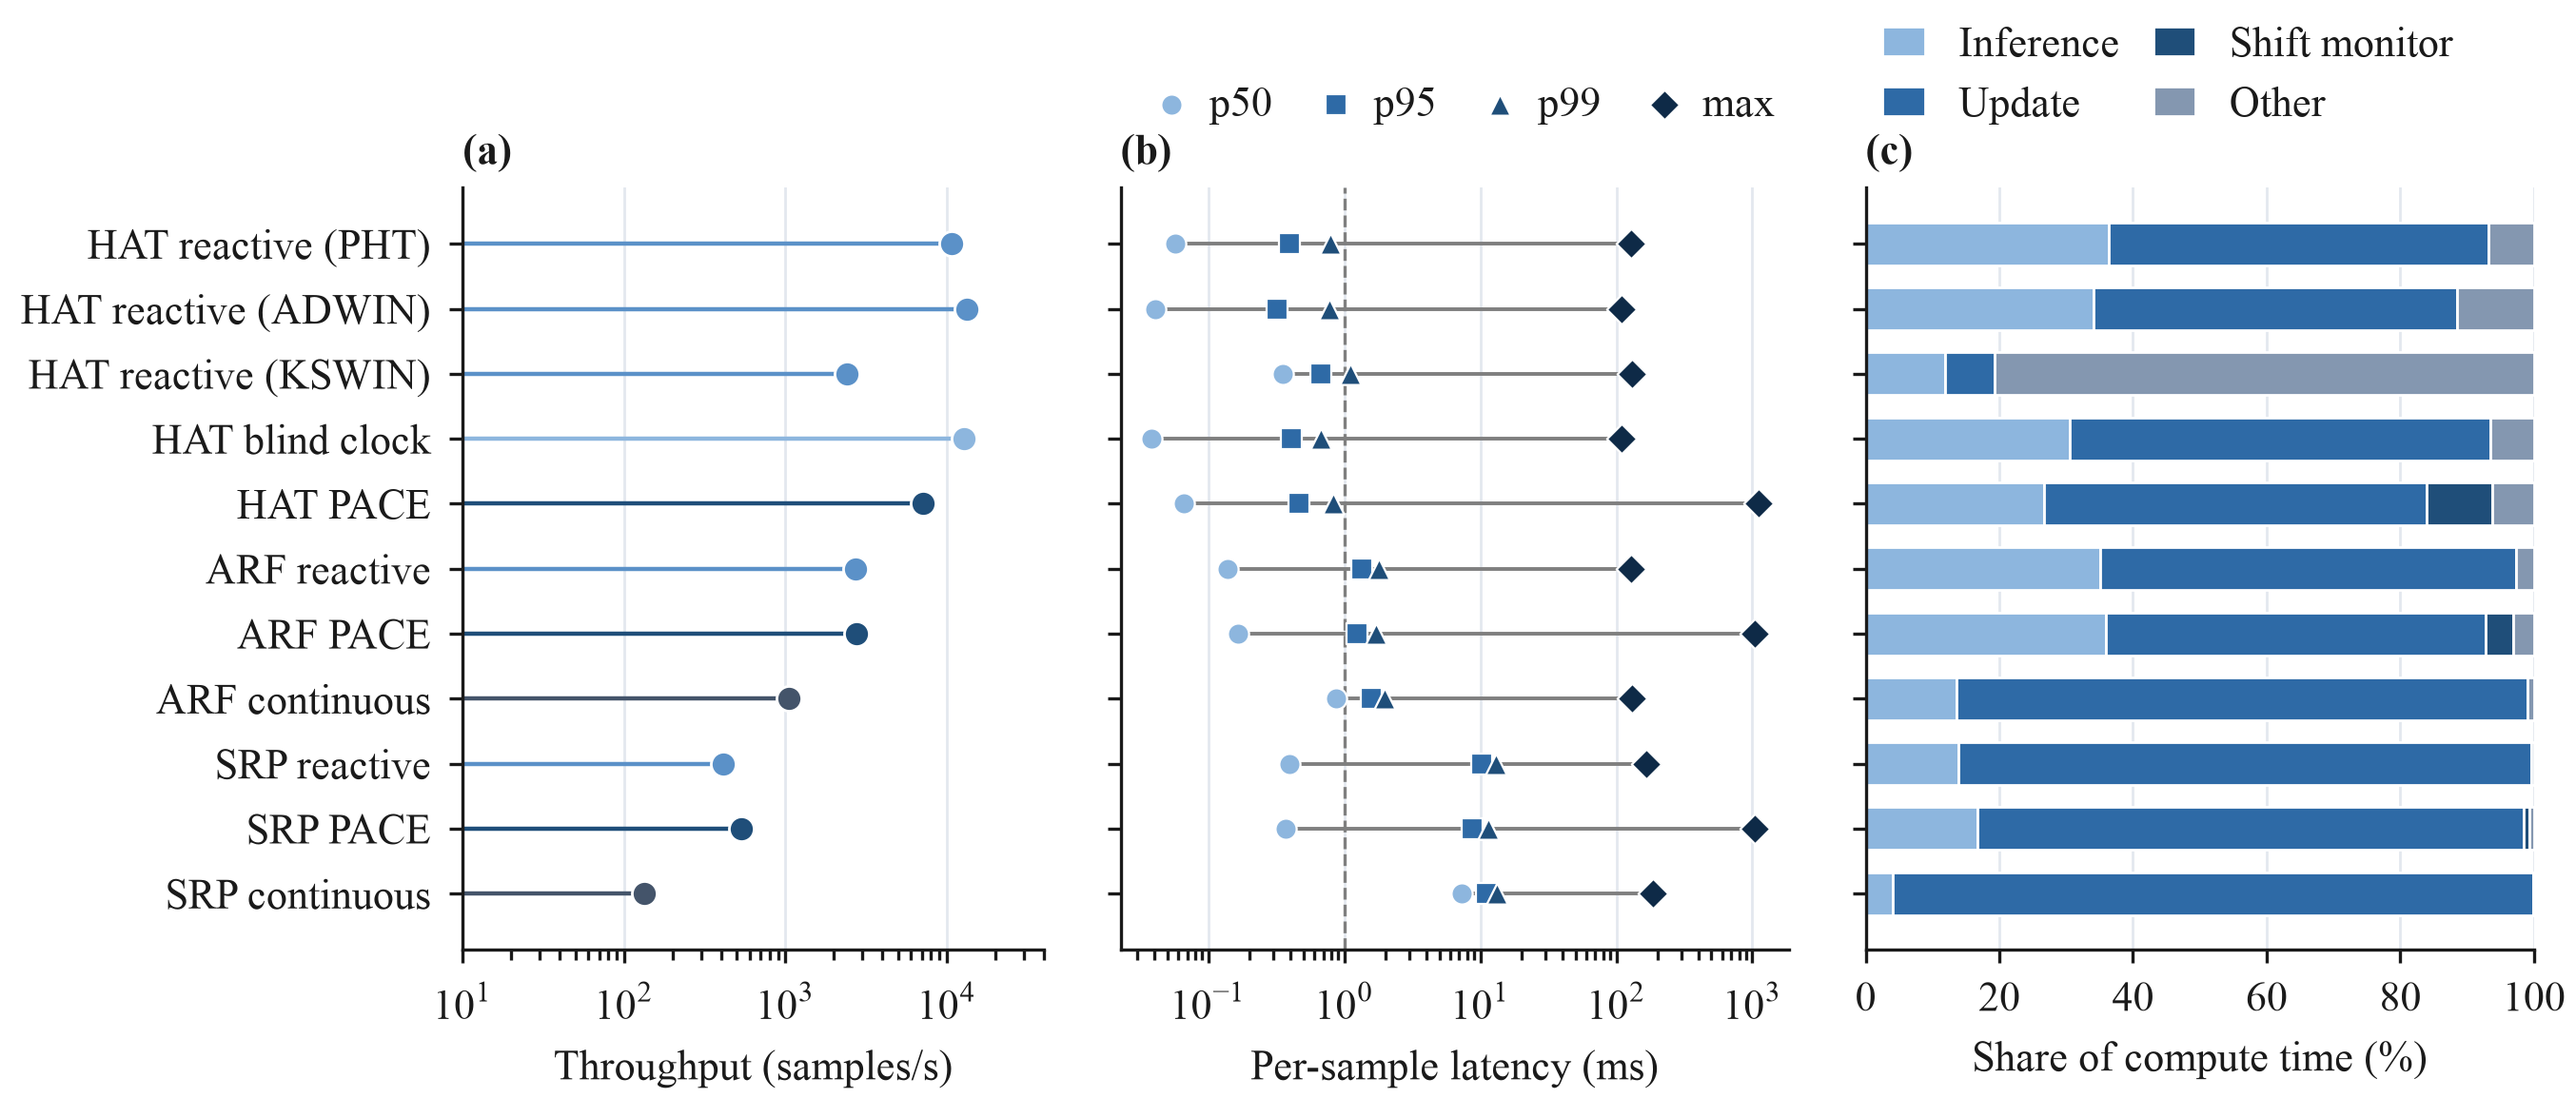
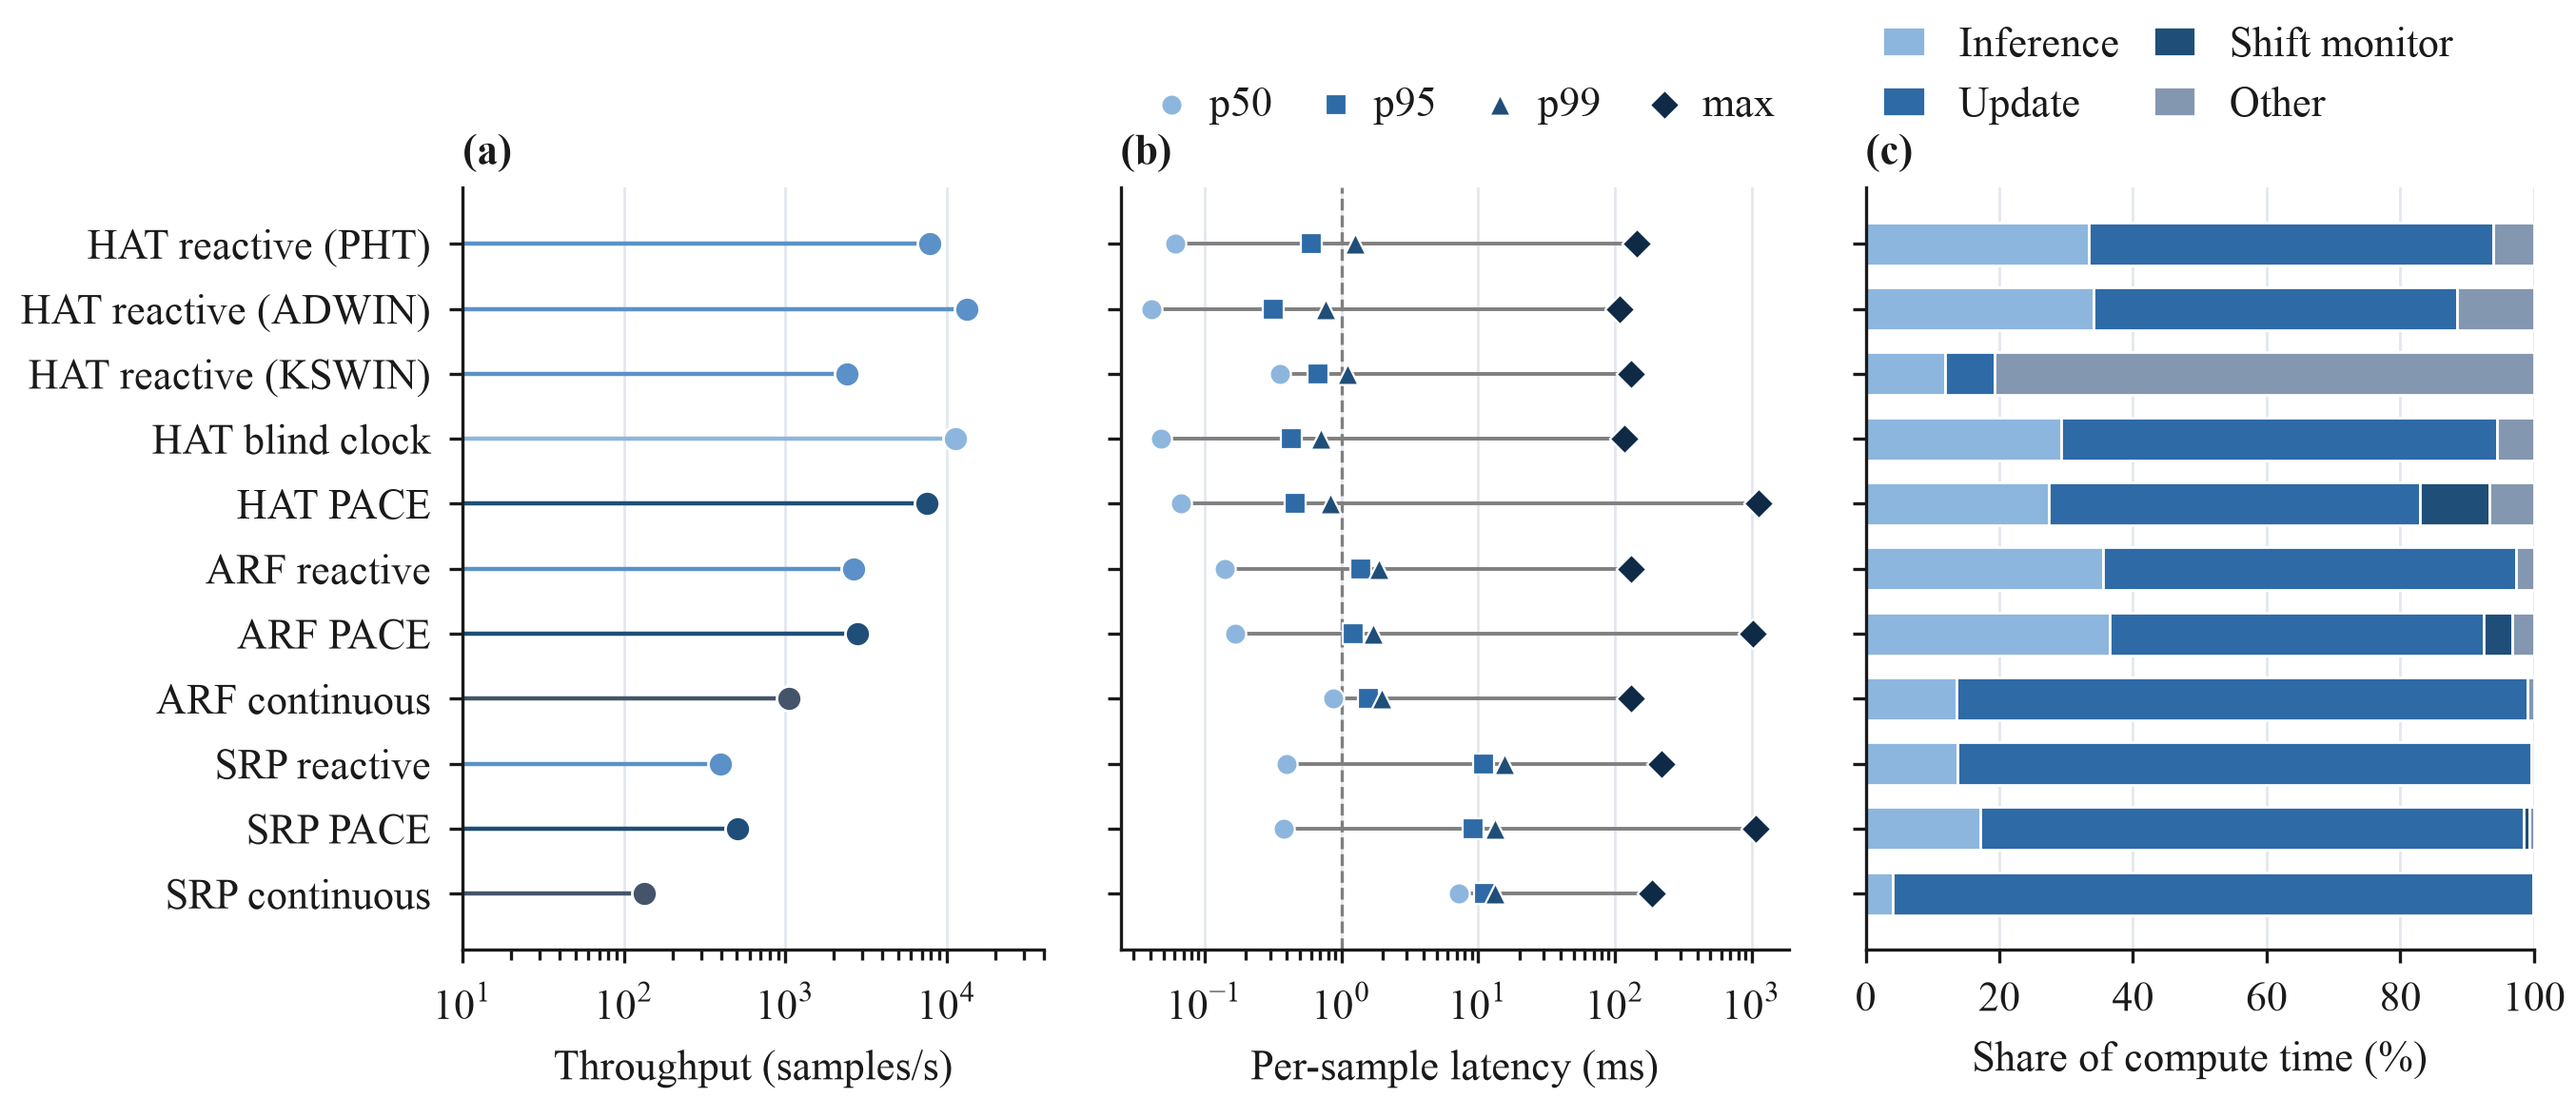
analysis: cost and sensitivity figures over the ten core seeds
reviewer_analysis averages every core seed that exists per arm (ADWIN,
KSWIN and continuous ARF/SRP have five) and prints the per-arm count.
At ten seeds B's throughput drops from 10.8K to 7.8K/s, level with
PACE: its seeds 5-9 ran in a busier batch, so the write-up now treats
HAT throughput gaps as load noise and keeps only PACE's monitor cost.
Sensitivity: recall 0.23 at the operating point, max 0.52.

diff --git a/scripts/reviewer_analysis.py b/scripts/reviewer_analysis.py
@@ -19,7 +19,7 @@ import matplotlib.pyplot as plt
 import numpy as np
 
 # reuse the palette, sizes and save/variant logic of the paper figures
-from paper_figures import ACC, BLUE, COLOR, FULL, MUTED, OUT, RUNS, SEEDS, SLATE_LT, save, tag  # noqa: E402
+from paper_figures import ACC, BLUE, COLOR, CORE, FULL, MUTED, OUT, RUNS, SLATE_LT, save, tag  # noqa: E402
 from river import drift as river_drift
 
 from driftgan.early.dual_pht import match_lead_times
@@ -39,13 +39,13 @@ PHASES = {  # top to bottom
 
 
 def available_phases() -> list[str]:
-    return [p for p in PHASES
-            if all((RUNS / p / f"seed_{s}" / "cost.json").exists() for s in SEEDS)]
+    return [p for p in PHASES if load_costs(p)]
 
 
 def load_costs(phase: str) -> list[dict]:
+    """Every core seed that was run; ADWIN, KSWIN and continuous ARF/SRP only have five."""
     out = []
-    for s in SEEDS:
+    for s in CORE:
         f = RUNS / phase / f"seed_{s}" / "cost.json"
         if f.exists():
             out.append(json.load(open(f)))
@@ -63,6 +63,7 @@ def fig4_resources(labels: bool = False) -> None:
     breakdown is a share, since absolute seconds are dominated by continuous SRP.
     """
     phases = available_phases()
+    print("  fig4 seeds:", {p: len(load_costs(p)) for p in phases})
     y = np.arange(len(phases))
     fig, (axT, axL, axB) = plt.subplots(1, 3, figsize=(FULL, 2.6), sharey=True,
                                         gridspec_kw={"width_ratios": [1, 1.15, 1.15]})
@@ -162,7 +163,7 @@ def fig5_sweep() -> tuple[np.ndarray, np.ndarray, np.ndarray, np.ndarray]:
     delta, min_instances, horizon = 0.0005, 10, 20_000  # match phase_c_early.yaml
     thresholds = np.geomspace(0.01, 2.0, 24)
     per_seed = []
-    for s in SEEDS:
+    for s in CORE:
         lt = json.load(open(RUNS / "C_early" / f"seed_{s}" / "lead_time.json"))
         series = lt.get("recon_error_series", [])
         if not series:

diff --git a/scripts/paper_figures.py b/scripts/paper_figures.py
@@ -40,7 +40,7 @@ from PIL import Image
 
 RUNS = Path("results/runs")
 REC = Path("results/recovery")
-SEEDS = [0, 1, 2, 3, 4]  # cost and sensitivity analyses (reviewer_analysis, monitor_ablation)
+SEEDS = [0, 1, 2, 3, 4]  # the monitor-ablation frontier (monitor_ablation, fig7)
 CORE = list(range(10))  # the ten seeds of the core, frequency, monitor and lead-time analyses
 
 # --------------------------------------------------------------------------- #

diff --git a/docs/experiments/04-resources-sensitivity.md b/docs/experiments/04-resources-sensitivity.md
@@ -16,16 +16,23 @@ and where does the compute go?
 
 ![Resource profile](../figures/fig4_resources.png)
 
-- **Throughput** (samples/s, mean over seeds): the HAT phases run at ~2.4K–13.3K/s;
-  continuous ensembles are far heavier — ARF ~1.0K/s, and **SRP ~130/s** (its p95 latency
-  is ~11 ms/sample vs sub-ms for HAT). C_early ~7.2K/s.
+Mean over the ten core seeds; ADWIN, KSWIN and continuous ARF/SRP were only run
+on five.
+
+- **Throughput** (samples/s): the HAT phases run at ~2.4K–13.3K/s; continuous
+  ensembles are far heavier — ARF ~1.0K/s, and **SRP ~130/s** (its p95 latency
+  is ~11 ms/sample vs sub-ms for HAT). C_early ~7.5K/s, B ~7.8K/s.
 - **Latency tail**: per-sample latency is **sub-millisecond typically** (p50
   0.04–0.07 ms in every HAT arm, PACE included, except KSWIN at 0.35 ms because its
-  KS test runs on every sample; p99 ~1 ms), but the monitor's periodic refit
+  KS test runs on every sample; p99 0.7–1.3 ms), but the monitor's periodic refit
   **spikes the max to ~1 s** — the relevant number for a line-rate IDS, and worth
-  stating openly. PACE's lower throughput is that minority of expensive samples,
-  not the typical one: more update time (158 s vs 119 s per run for B) plus 27 s
-  of monitor, about a third more compute.
+  stating openly.
+- **Wall-clock is load-dependent.** Apart from KSWIN, throughput gaps between the
+  HAT arms are not a method ranking: B alone spans ~4.2K–20.4K/s across seeds, and
+  its seeds 5–9 ran in a busier batch (inference ~130 s vs ~76 s for the same
+  work). At five seeds B read 10.8K/s and PACE looked ~a third costlier; at ten
+  the gap is gone. What PACE does add is its monitor, ~28 s per run (~10% of its
+  compute).
 - **Where the time goes**: the proactive arm spends a visible slice in the shift
   monitor; the HAT
   update/inference is the rest.
@@ -59,7 +66,7 @@ rate, and lead time.
 ![Operating-point sensitivity](../figures/fig5_early_sensitivity.png)
 
 - At the operating threshold (0.1) the **anticipation recall is ~0.23** — the
-  monitor foresees about a quarter of drifts (max ~0.53 at the most aggressive
+  monitor foresees about a quarter of drifts (mean over ten seeds; max ~0.52 at the most aggressive
   setting). This is the honest limitation of the early monitor.
 - **Lead time is stable at ~6–8K samples across a wide threshold band**, so 0.1 is
   not an overfit knife-edge.
